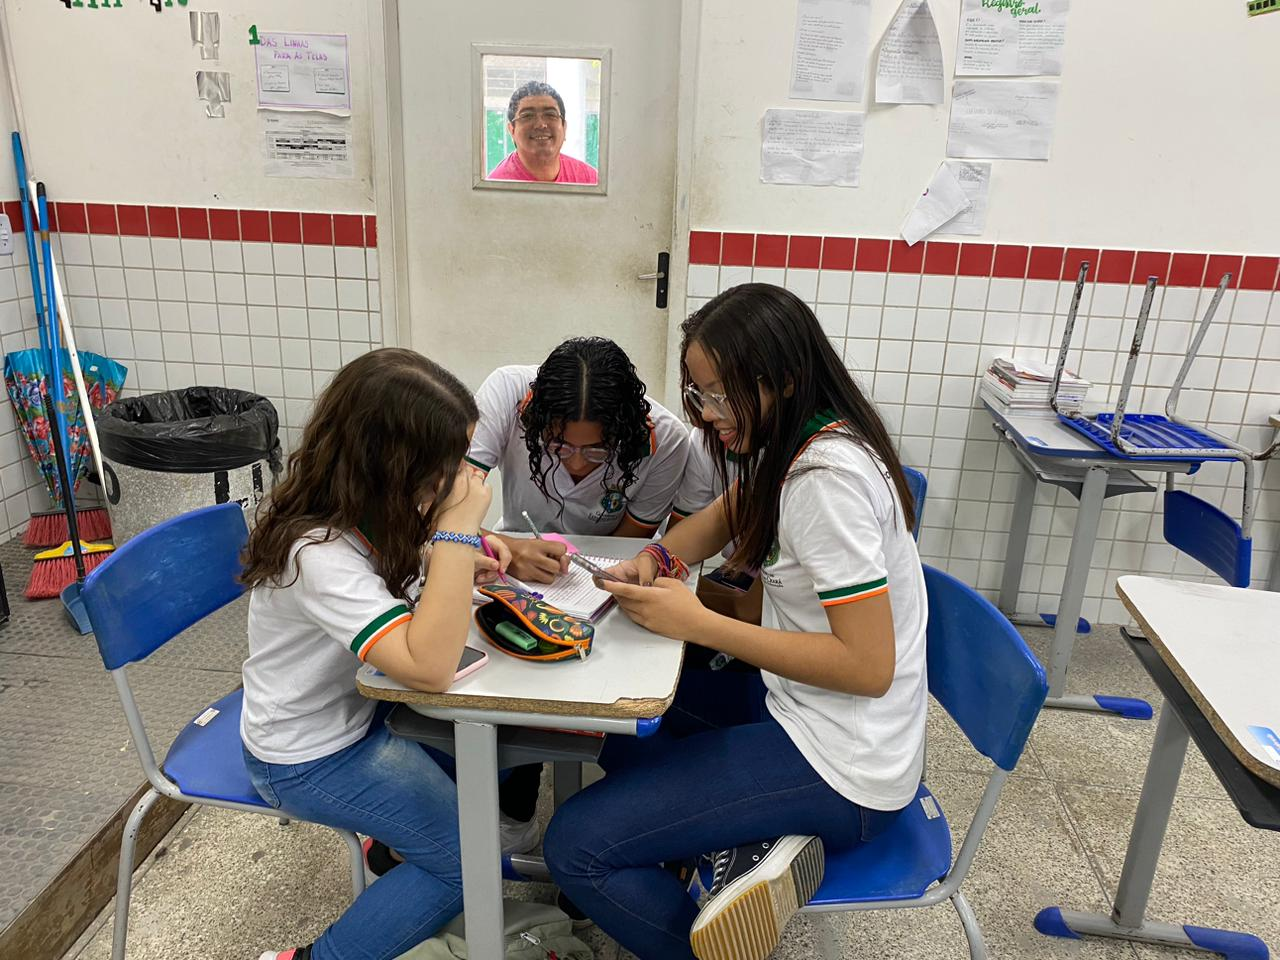
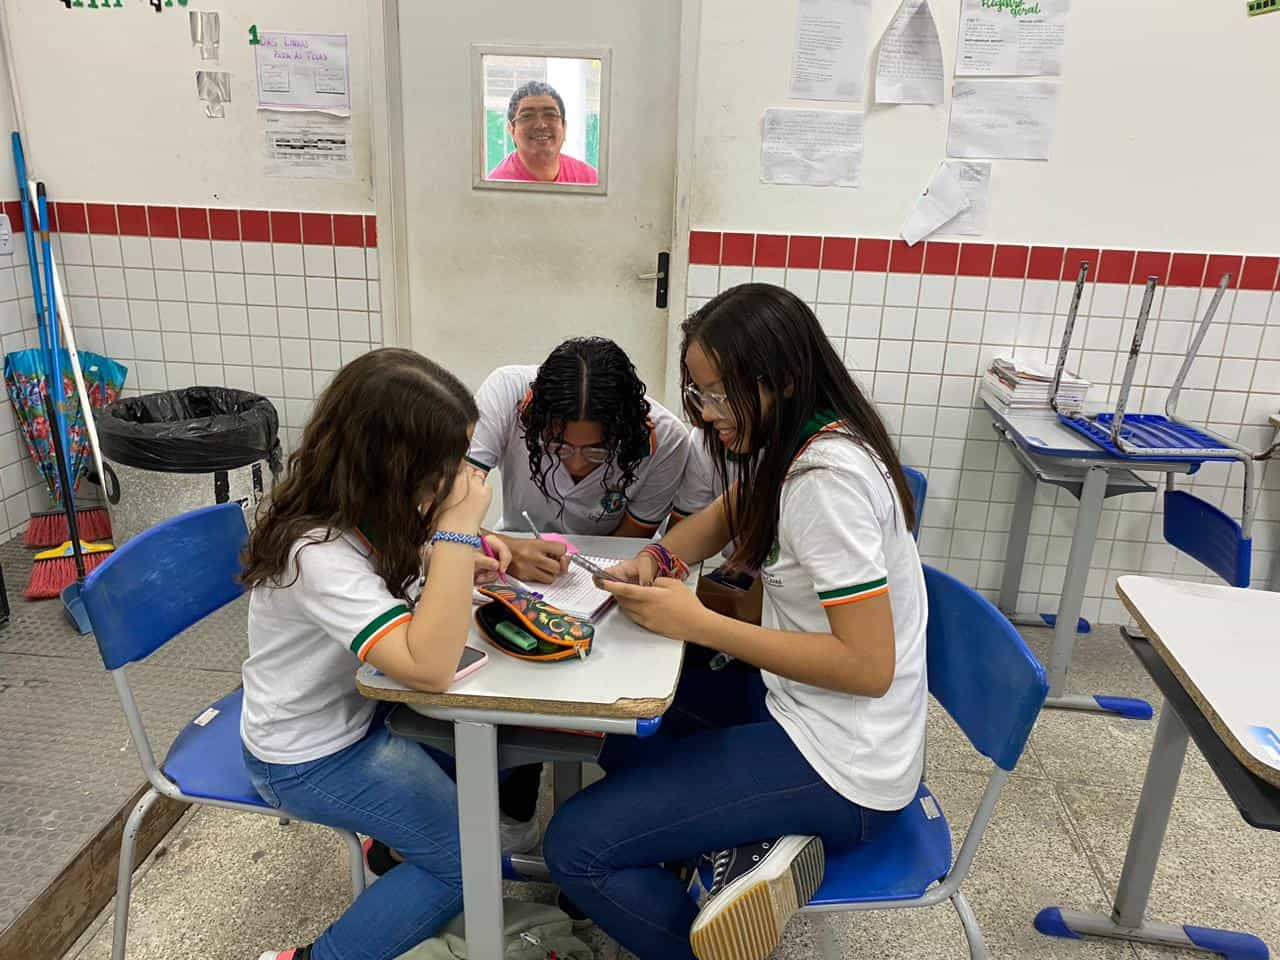
mudança de imagens

diff --git a/index.html b/index.html
@@ -83,7 +83,7 @@
                     <h1>Ep na Rede</h1>
                     <h2>Ligando pessoas a rede profissional</h2>
                 </div>
-            <img src="imagens/pagina_inicial/p/logo_EP_na_Rede(P).jpg" alt="logo_EP_na_Rede">
+            <img src="imagens/pagina_inicial/logo_EP_na_Rede.jpg" alt="logo_EP_na_Rede">
         </section>
     </header>
 
@@ -100,17 +100,12 @@
         </section>
         <section id="imagens_pag01">
             <h1>Logotipo do projeto</h1>
-            <picture>
-                <source media="(min-width: 1200px)" srcset="imagens/pagina_inicial/g/logo_EP_na_Rede(G).jpg">
-                <source media="(min-width: 768px)" srcset="imagens/pagina_inicial/m/logo_EP_na_Rede(M).jpg" type="image/jpeg">
-                <img src="imagens/pagina_inicial/p/logo_EP_na_Rede(P).jpg" alt="logotipo">
-            </picture>            
+            
+            <img src="imagens/pagina_inicial/logo_EP_na_Rede.jpg" alt="logotipo">
+
             <h1>Primeira reunião registrada no dia 20/04/2023</h1>
-            <picture>
-                <source media="(min-width: 1200px)" srcset="imagens/pagina_inicial/g/primeira_reuniao(G).jpg">
-                <source media="(min-width: 768px)" srcset="imagens/pagina_inicial/m/primeira_reuniao(M).jpg" type="image/jpeg">
-                <img src="imagens/pagina_inicial/p/primeira_reuniao(P).jpg" alt="primeira reunião">
-            </picture>
+
+            <img src="imagens/pagina_inicial/primeira_reuniao.jpg" alt="primeira reunião">
         </section>
     </main>
 

diff --git a/estilos/style.css b/estilos/style.css
@@ -266,3 +266,9 @@ main h4{
     background-color: inherit;
     margin: 0 15px;
 }
+#imagens_pag01 img{
+    width: 100%;
+    max-height: 710px;
+    max-width: 710px;
+    background-size: cover;
+}
